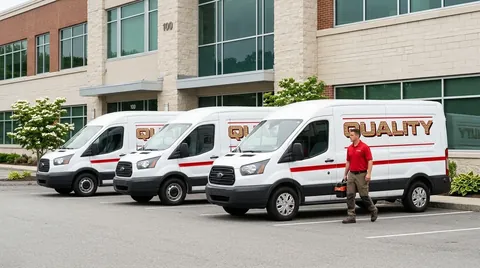
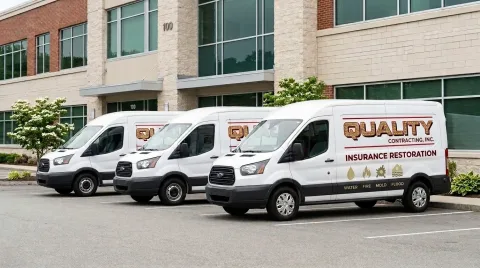
qci: Fran's website feedback round (08-19 email)
- header logo removed (name in type; van carries the brand)
- all free-estimate copy replaced with Request Service across components/content
- all dollar figures stripped from 12 content files (scope-based reframe, lint-gated)
- about: incorporated April 2001, meta corrected
- emergency page: six client-attested emergency services (capsule + card grid)
- graphical MA-CT-RI service-area map (Fran's image) replaces town-list-only view
- van hero regenerated: INSURANCE RESTORATION + WATER/FIRE/MOLD/FLOOD icon row,
  middle-van lettering cleaned, wall ghosting removed (all 4 webp derivatives)
- PAY HERE ported verbatim from qualitycontracting.us (Authorize.net Simple
  Checkout LinkId) into header + mobile nav + footer
- domain recorded: qualitycontracting.us; brand.ts/astro.config/llms/ai.txt
  https://None fixed; local /brand/hero.webp fallback replaces images.None

diff --git a/sites/quality-contracting-inc/src/lib/brand.ts b/sites/quality-contracting-inc/src/lib/brand.ts
@@ -8,7 +8,7 @@ export const brand = {
   shortName: "Quality Contracting, Inc.",
   legalName: "Quality Contracting, Inc.",
   domain: "",
-  canonicalUrl: "https://None",
+  canonicalUrl: "https://qualitycontracting.us",
   phone: "(508) 756-8800",
   phoneRaw: "+15087568800",
   email: "info@qualitycontracting.us",
@@ -26,7 +26,9 @@ export const brand = {
   lng: "-71.8358095",
   placeId: "",
   googleCid: "",
-  imagesBase: "https://images.None",
+  // No per-client images bucket provisioned — serve the brand hero fallback
+  // from the site itself (public/brand/hero.webp)
+  imagesBase: "",
   googleMapsApiKey: "",
   // Analytics — set post-scaffold (scripts/analytics_set.py / create_ga4.py); no-op if empty
   ga4MeasurementId: "",

diff --git a/sites/quality-contracting-inc/src/content/services/mold-remediation.md b/sites/quality-contracting-inc/src/content/services/mold-remediation.md
@@ -12,7 +12,7 @@ generated_at: "2026-07-28T14:56:37.534349+00:00"
 manual_override: false
 internal_links: ["/services/", "/contact/", "/blog/choosing-a-restoration-company/", "/blog/how-to-test-for-mold/", "/blog/signs-of-hidden-mold/"]
 breadcrumb: [{"name": "Home", "url": "/"}, {"name": "Services", "url": "/services/"}, {"name": "Mold Remediation"}]
-faq: [{"question": "Does homeowners insurance cover mold remediation?", "answer": "It depends on the cause: most standard homeowners policies cover mold remediation when it results directly from a covered sudden event, like a burst pipe or appliance leak, but many policies exclude mold from long-term seepage, flooding, or neglected maintenance \u2014 and mold sublimits (often $5,000\u2013$10,000) can apply even when coverage exists. Quality Contracting, Inc. works with all major insurance carriers and handles the claim documentation \u2014 moisture readings, photo records, written scope \u2014 so your adjuster has what they need to process the claim. Reviewing your specific policy's mold language before filing is always worth a quick call to your agent."}, {"question": "What's the difference between mold remediation and mold removal \u2014 and does the distinction matter?", "answer": "\"Mold removal\" implies eliminating all mold, which isn't possible \u2014 mold spores exist naturally in every indoor and outdoor environment. Remediation means returning indoor mold levels to a normal background concentration and eliminating the conditions that allowed abnormal growth. The distinction matters practically: a contractor who promises complete mold elimination is overstating what the work can achieve, and a remediation that doesn't address the underlying moisture source will fail regardless of what's applied to the surface."}, {"question": "How do I know the mold remediation actually worked?", "answer": "Post-remediation verification \u2014 either a visual clearance inspection or air sampling compared against an outdoor baseline \u2014 is the standard way to confirm the work was effective. Air samples taken inside the remediated area should show spore concentrations and species composition comparable to outdoor control samples. Without this step, there's no objective evidence the remediation succeeded, which can also create problems if you sell the property or file a future insurance claim."}, {"question": "Do I need to leave my home during mold remediation?", "answer": "For small, well-contained projects \u2014 a single bathroom wall, for example \u2014 temporary displacement may not be necessary if the work area can be fully isolated. For larger projects involving significant material removal, HEPA air scrubbing running continuously, or mold in HVAC-adjacent areas, staying elsewhere during active work is the more cautious choice. The remediation team will walk you through what's appropriate for your specific project before work begins."}, {"question": "How quickly does mold grow after a water leak, and does that affect what remediation involves?", "answer": "Under warm, humid conditions, mold can begin colonizing wet porous materials \u2014 drywall paper, insulation, wood \u2014 within 24 to 48 hours of a moisture event. The longer materials stay wet, the deeper the hyphal growth penetrates into the substrate, which affects whether surface cleaning is sufficient or whether physical removal is necessary. A leak that was dried within 24\u201348 hours may require only monitoring and treatment; the same leak left wet for a week or more typically requires material removal and is a more involved remediation scope."}]
+faq: [{"question": "Does homeowners insurance cover mold remediation?", "answer": "It depends on the cause: most standard homeowners policies cover mold remediation when it results directly from a covered sudden event, like a burst pipe or appliance leak, but many policies exclude mold from long-term seepage, flooding, or neglected maintenance \u2014 and mold sublimits can apply even when coverage exists. Quality Contracting, Inc. works with all major insurance carriers and handles the claim documentation \u2014 moisture readings, photo records, written scope \u2014 so your adjuster has what they need to process the claim. Reviewing your specific policy's mold language before filing is always worth a quick call to your agent."}, {"question": "What's the difference between mold remediation and mold removal \u2014 and does the distinction matter?", "answer": "\"Mold removal\" implies eliminating all mold, which isn't possible \u2014 mold spores exist naturally in every indoor and outdoor environment. Remediation means returning indoor mold levels to a normal background concentration and eliminating the conditions that allowed abnormal growth. The distinction matters practically: a contractor who promises complete mold elimination is overstating what the work can achieve, and a remediation that doesn't address the underlying moisture source will fail regardless of what's applied to the surface."}, {"question": "How do I know the mold remediation actually worked?", "answer": "Post-remediation verification \u2014 either a visual clearance inspection or air sampling compared against an outdoor baseline \u2014 is the standard way to confirm the work was effective. Air samples taken inside the remediated area should show spore concentrations and species composition comparable to outdoor control samples. Without this step, there's no objective evidence the remediation succeeded, which can also create problems if you sell the property or file a future insurance claim."}, {"question": "Do I need to leave my home during mold remediation?", "answer": "For small, well-contained projects \u2014 a single bathroom wall, for example \u2014 temporary displacement may not be necessary if the work area can be fully isolated. For larger projects involving significant material removal, HEPA air scrubbing running continuously, or mold in HVAC-adjacent areas, staying elsewhere during active work is the more cautious choice. The remediation team will walk you through what's appropriate for your specific project before work begins."}, {"question": "How quickly does mold grow after a water leak, and does that affect what remediation involves?", "answer": "Under warm, humid conditions, mold can begin colonizing wet porous materials \u2014 drywall paper, insulation, wood \u2014 within 24 to 48 hours of a moisture event. The longer materials stay wet, the deeper the hyphal growth penetrates into the substrate, which affects whether surface cleaning is sufficient or whether physical removal is necessary. A leak that was dried within 24\u201348 hours may require only monitoring and treatment; the same leak left wet for a week or more typically requires material removal and is a more involved remediation scope."}]
 service_slug: "mold-remediation"
 service_display: "Mold Remediation"
 rendered: true
@@ -51,17 +51,7 @@ Finally, clearance testing matters. Remediation without a post-project air sampl
 
 ## What does mold remediation cost?
 
-Typical costs run a wide range depending on the size of the affected area, the materials involved, and whether the underlying moisture source requires structural repair. Most homeowners pay somewhere in the ranges below — these are industry-typical figures, not a quote from Quality Contracting, Inc.
-
-| Scenario | Typical range |
-|---|---|
-| Single bathroom or small surface area (< 10 sq ft) | $500 – $1,500 |
-| Single room, contained growth (10–50 sq ft) | $1,500 – $4,000 |
-| Multiple rooms or partial floor system | $4,000 – $10,000 |
-| Crawlspace remediation | $3,000 – $8,000 |
-| Whole-structure or attic remediation | $8,000 – $30,000+ |
-
-Every loss is different, and Quality Contracting, Inc. provides a written scope of work before any project begins so there are no surprises. Homeowners insurance typically covers mold remediation when it results directly from a covered peril — a sudden pipe burst, for example — but may exclude mold that developed from long-term neglected moisture or flooding in certain policy types. Reviewing your policy's mold sublimit before filing is worth the call to your agent.
+Cost depends on the documented scope of work. The size of the affected area, the materials involved, and whether the underlying moisture source requires structural repair all affect what the job requires. We produce a line-item scope with photos and moisture readings formatted for insurance carriers so your adjuster has a clear, complete record. For insured losses we bill the carrier directly. Call us at (508) 756-8800 and we will walk through the scope with you before any work begins so there are no surprises. Homeowners insurance typically covers mold remediation when it results directly from a covered peril — a sudden pipe burst, for example — but may exclude mold that developed from long-term neglected moisture or flooding in certain policy types. Reviewing your policy's mold sublimit before filing is worth the call to your agent.
 
 ## Seasonal and regional considerations
 

diff --git a/sites/quality-contracting-inc/src/content/pages/about.md b/sites/quality-contracting-inc/src/content/pages/about.md
@@ -2,7 +2,7 @@
 archetype: "about"
 title: "About Quality Contracting, Inc. | Auburn Restoration Company"
 h1: "About Quality Contracting, Inc."
-meta_description: "Quality Contracting, Inc. Has served Auburn since. Meet our restoration team. Locally owned."
+meta_description: "Quality Contracting, Inc., serving South and Central New England from Auburn since 2001. Meet our restoration team. Locally owned."
 primary_keyword: "quality contracting, inc. auburn"
 secondary_keywords: ["local restoration company", "restoration industry standards", "licensed restoration contractor"]
 search_intent: "navigational_trust"
@@ -12,7 +12,7 @@ generated_at: "2026-07-28T15:04:18.068276+00:00"
 manual_override: false
 internal_links: ["/", "/services/", "/contact/"]
 breadcrumb: [{"name": "Home", "url": "/"}, {"name": "About"}]
-faq: [{"question": "How long has Quality Contracting, Inc. been in business?", "answer": "Quality Contracting, Inc. has been operating in central Massachusetts for a number of years, based out of Auburn. For specific founding details, feel free to call the office at (508) 756-8800 \u2014 the team is happy to talk through the company's history directly."}, {"question": "What areas does Quality Contracting, Inc. serve?", "answer": "The primary service area covers Auburn, Worcester, Shrewsbury, and the corridor east toward Boston — Westborough, Southborough, Hopkinton, Framingham, Natick, Wellesley, Needham, Newton, and Weston — with crews responding across a 50 mile radius of Auburn. If you're unsure whether your location falls within the service area, a quick call to (508) 756-8800 will get you a straight answer."}, {"question": "Is Quality Contracting, Inc. certified for mold and water damage work?", "answer": "The company follows IICRC industry standards for water damage and mold remediation work, which set the technical benchmarks for drying protocols, containment, and documentation. For work in homes built before 1978, EPA lead-safe practices apply to any demolition or reconstruction that disturbs painted surfaces \u2014 something that comes up frequently given the age of housing stock across central Massachusetts."}]
+faq: [{"question": "How long has Quality Contracting, Inc. been in business?", "answer": "Quality Contracting, Inc. has been incorporated since April 2001 and operates out of Auburn, Massachusetts, serving South and Central New England. That is more than two decades of restoration and reconstruction work in the region."}, {"question": "What areas does Quality Contracting, Inc. serve?", "answer": "The primary service area covers Auburn, Worcester, Shrewsbury, and the corridor east toward Boston — Westborough, Southborough, Hopkinton, Framingham, Natick, Wellesley, Needham, Newton, and Weston — with crews responding across a 50 mile radius of Auburn. If you're unsure whether your location falls within the service area, a quick call to (508) 756-8800 will get you a straight answer."}, {"question": "Is Quality Contracting, Inc. certified for mold and water damage work?", "answer": "The company follows IICRC industry standards for water damage and mold remediation work, which set the technical benchmarks for drying protocols, containment, and documentation. For work in homes built before 1978, EPA lead-safe practices apply to any demolition or reconstruction that disturbs painted surfaces \u2014 something that comes up frequently given the age of housing stock across central Massachusetts."}]
 rendered: true
 ---
 Quality Contracting, Inc. has been serving homeowners and property managers in central Massachusetts from its base in Auburn — a town that sits almost exactly at the geographic center of the state, which makes it a natural hub for responding to losses across Worcester County and beyond. The company was built around restoration work because that's where the need is most acute: a burst pipe at 2 a.m., a kitchen fire, a basement that's been quietly growing mold behind the drywall for months. These aren't projects people plan for, and the contractor they call needs to know exactly what they're doing.

diff --git a/sites/quality-contracting-inc/src/content/blog/how-to-test-for-mold.md b/sites/quality-contracting-inc/src/content/blog/how-to-test-for-mold.md
@@ -21,7 +21,7 @@ If you've spotted a dark stain on the ceiling, caught a musty smell after a base
 
 ## What DIY Mold Test Kits Actually Do (and Don't Do)
 
-You've probably seen the petri-dish kits at hardware stores — typically $10–$50 — or the swab-and-mail-in versions that cost $30–$150 once you add the lab fee. Both work on the same basic principle: collect a sample, let mold spores grow or send the sample to a lab, and get a result.
+You've probably seen the petri-dish kits at hardware stores, or the swab-and-mail-in versions that require a separate lab fee. Both work on the same basic principle: collect a sample, let mold spores grow or send the sample to a lab, and get a result.
 
 Here's what they can tell you:
 
@@ -49,7 +49,7 @@ A certified mold inspector does several things a kit can't replicate:
 4. **Surface sampling** — Tape lifts or swabs from suspect areas go to an accredited lab, usually returning results in 24–72 hours.
 5. **Written report** — You receive a documented assessment that identifies affected areas, species found, and recommended remediation scope. This report is often required by insurance carriers and is essential if you're buying or selling a home.
 
-The cost for a professional inspection in central Massachusetts typically runs $300–$600 depending on home size and the number of samples collected. That's more than a kit, but the information you get is categorically different.
+A professional inspection gives you information that is categorically different from what a kit provides. The cost depends on the documented scope, including home size and the number of samples needed.
 
 ## When a DIY Kit Is Probably Enough
 
@@ -76,7 +76,7 @@ Call a professional if any of the following apply:
 
 If the inspection confirms mold, the next step is remediation — the physical removal of contaminated materials and treatment of affected surfaces. This is not a bleach-and-paint job. Proper remediation involves containment barriers to prevent cross-contamination, negative air pressure machines with HEPA filtration, controlled demolition of unsalvageable drywall or insulation, antimicrobial treatment, and post-remediation clearance testing to verify the work is complete.
 
-The scope depends entirely on what the inspection found. A 2-square-foot stain on a bathroom wall is a different project than mold colonizing 400 square feet of basement framing after a sump pump failure. That's why the inspection report matters — it defines the scope, which defines the cost, which is what your insurance carrier needs to process a claim.
+The scope depends entirely on what the inspection found. A 2-square-foot stain on a bathroom wall is a different project than mold colonizing 400 square feet of basement framing after a sump pump failure. That's why the inspection report matters. We produce a line-item scope with photos and moisture readings formatted for insurance carriers. For insured losses we bill the carrier directly.
 
 In Auburn and the surrounding MetroWest and Worcester County area, older housing stock — triple-deckers, cape-style homes with unvented crawl spaces, and 1960s–1980s ranch homes with fiberglass-insulated basements — tends to hold moisture longer than newer construction. If your home falls into any of those categories and you've had any water intrusion, the threshold for getting a professional inspection should be lower, not higher.
 

diff --git a/sites/quality-contracting-inc/src/content/blog/does-homeowners-insurance-cover-water-damage.md b/sites/quality-contracting-inc/src/content/blog/does-homeowners-insurance-cover-water-damage.md
@@ -49,7 +49,7 @@ One thing Massachusetts homeowners run into: ice dam damage. Because ice dams ar
 
 Before you call your adjuster, spend 15 minutes with your declarations page and the exclusions section. You're looking for three things:
 
-1. **Your deductible.** If the damage is $3,200 and your deductible is $2,500, filing a claim may not be worth it — and a claim on your record can raise your premium.
+1. **Your deductible.** Cost depends on the documented scope; we produce a line-item scope with photos and moisture readings formatted for insurance carriers. If the repair cost is only modestly above your deductible, filing a claim may not be worth it, and a claim on your record can raise your premium.
 2. **The exclusions list.** Look for the words "seepage," "leakage," "continuous or repeated," and "flood." These are the phrases insurers use to deny gradual-damage claims.
 3. **Any endorsements you added.** Water backup coverage, equipment breakdown coverage, and service line coverage are common add-ons that change what's covered. If you're not sure what you bought, call your agent — not your adjuster — and ask.
 
@@ -87,7 +87,7 @@ The drying and reconstruction phase runs parallel to the claims process. Structu
 
 Water is deceptive. A stain on the ceiling might represent a few gallons of standing water inside a wall cavity. Hardwood floors that look fine on day one can be cupped and buckled by day three. Mold can begin to colonize wet cellulose materials — drywall paper, wood framing, insulation — within 24 to 48 hours in warm conditions.
 
-If you're dealing with more than a small, contained spill, a professional moisture assessment is worth doing even if you're still sorting out insurance. Thermal imaging cameras and pin-type moisture meters can find wet areas behind walls and under floors that look dry to the eye. Knowing the true extent of the damage before you negotiate a claim settlement protects you from closing out a claim and then discovering hidden rot or mold six months later.
+If you're dealing with more than a small, contained spill, a professional moisture assessment is worth doing even if you're still sorting out insurance. Thermal imaging cameras and pin-type moisture meters can find wet areas behind walls and under floors that look dry to the eye. Cost depends on the documented scope; we produce a line-item scope with photos and moisture readings formatted for insurance carriers, and for insured losses we bill the carrier directly. Knowing the true extent of the damage before you negotiate a claim settlement protects you from closing out a claim and then discovering hidden rot or mold six months later.
 
 ---
 

diff --git a/sites/quality-contracting-inc/src/content/services/contents-restoration.md b/sites/quality-contracting-inc/src/content/services/contents-restoration.md
@@ -55,18 +55,7 @@ Insurance adjusters also look for a clear line between pre-loss condition and lo
 
 ## What does contents restoration and storage cost?
 
-Typical costs for contents restoration and storage vary considerably based on the volume of affected items, the type of damage, and how quickly the pack-out begins. Most homeowners pay somewhere in the ranges below for industry-typical scenarios — these are not quotes from Quality Contracting, Inc., but representative figures to help you understand the scope of the work.
-
-| Scenario | Typical industry range |
-|---|---|
-| Single room, smoke-affected soft goods only | $800 – $2,500 |
-| Whole-house pack-out after fire (contents cleaning + storage) | $8,000 – $25,000 |
-| Water damage pack-out, single floor (no mold) | $3,500 – $9,000 |
-| Document and photo recovery (freeze-drying, small volume) | $500 – $2,000 |
-| Electronics assessment and restoration (per unit) | $150 – $600 |
-| Odor treatment (ozone/hydroxyl, whole-house contents) | $1,200 – $4,000 |
-
-Every loss is different, and Quality Contracting, Inc. provides a written scope of work before any restoration begins so there are no surprises. Homeowners insurance typically covers contents restoration and storage when the loss is caused by a covered peril — fire, certain water events, and storm damage are the most common — and the itemized inventory documentation generated during pack-out is exactly what adjusters need to process that portion of the claim.
+Cost depends on the documented scope of the loss. The volume of affected items, the type of damage, and how quickly the pack-out begins all shape what the work involves. We produce a line-item scope with photos and moisture readings formatted for insurance carriers. For insured losses we bill the carrier directly. Homeowners insurance typically covers contents restoration and storage when the loss is caused by a covered peril — fire, certain water events, and storm damage are the most common — and the itemized inventory documentation generated during pack-out is exactly what adjusters need to process that portion of the claim. Quality Contracting, Inc. provides a written scope of work before any restoration begins so there are no surprises.
 
 ## Seasonal and regional considerations
 

diff --git a/sites/quality-contracting-inc/src/content/services/fire-damage-restoration.md b/sites/quality-contracting-inc/src/content/services/fire-damage-restoration.md
@@ -49,18 +49,7 @@ Finally, HVAC systems are frequently overlooked. Smoke circulates through ductwo
 
 ## What does fire damage restoration cost?
 
-Typical costs for residential fire and smoke restoration vary widely based on the size of the affected area, the intensity of the fire, and the types of materials involved. Most homeowners pay somewhere between $3,000 and $30,000 for fire cleanup and structural repair, with total losses running significantly higher. The table below reflects typical industry ranges — not quotes from Quality Contracting, Inc.
-
-| Scenario | Typical industry range |
-|---|---|
-| Single room, smoke damage only | $2,500 – $6,000 |
-| Kitchen fire, moderate structural damage | $8,000 – $20,000 |
-| Whole-floor smoke migration, no structural loss | $6,000 – $15,000 |
-| Partial structural loss (one room or area) | $15,000 – $40,000 |
-| Whole-home fire with reconstruction required | $40,000 – $150,000+ |
-| Contents pack-out and cleaning (per household) | $3,000 – $12,000 |
-
-Every fire loss is different — scope, materials, and extent of hidden damage all affect the final number. Quality Contracting, Inc. provides a written scope of work before any work begins so there are no surprises. Standard homeowners insurance policies typically cover sudden and accidental fire damage including cleanup, structural repair, and contents restoration, subject to your deductible and policy limits.
+Cost depends on the documented scope of work. Every fire loss is different — the size of the affected area, the intensity of the fire, the types of materials involved, and the extent of hidden smoke migration all affect the final scope. Quality Contracting, Inc. produces a line-item scope with photos and moisture readings formatted for insurance carriers so the adjuster has everything needed to process the claim accurately. For insured losses we bill the carrier directly. Quality Contracting, Inc. provides a written scope of work before any work begins so there are no surprises. Standard homeowners insurance policies typically cover sudden and accidental fire damage including cleanup, structural repair, and contents restoration, subject to your deductible and policy limits.
 
 ## Seasonal and regional considerations
 

diff --git a/sites/quality-contracting-inc/src/content/services/crawl-space-encapsulation.md b/sites/quality-contracting-inc/src/content/services/crawl-space-encapsulation.md
@@ -53,18 +53,7 @@ Finally, dehumidifier sizing matters. A unit rated for 1,000 sq ft placed in a 2
 
 ## What does crawl space encapsulation cost?
 
-Typical costs for crawl space encapsulation depend on the size of the space, existing conditions, and what components the system requires. Most homeowners pay somewhere in the ranges below — these are industry-typical figures, not a quote from Quality Contracting, Inc.
-
-| Scenario | Typical range |
-|---|---|
-| Small crawl space (under 800 sq ft), liner only | $1,500 – $3,000 |
-| Mid-size crawl space (800–1,500 sq ft), liner + dehumidifier | $3,000 – $6,000 |
-| Large crawl space (1,500–2,500 sq ft), full system | $5,500 – $10,000 |
-| Add: insulation removal and disposal | $500 – $1,500 |
-| Add: sump pit and sealed cover | $800 – $2,000 |
-| Add: mold remediation on framing prior to encapsulation | $1,200 – $4,500 |
-
-Every crawl space is different, and Quality Contracting, Inc. provides a written scope of work before any work begins so there are no surprises. Homeowners insurance typically does not cover encapsulation as a preventive upgrade, but it may cover related work — liner replacement, mold remediation, or structural drying — when the damage is tied to a covered sudden loss like a burst pipe or storm-driven water intrusion. Documentation of cause and scope is key to a successful claim.
+Cost depends on the documented scope of work. Every job is different based on the size of the space, existing conditions, and what components the system requires. We produce a line-item scope with photos and moisture readings formatted for insurance carriers so the work is clearly supported from the start. For insured losses we bill the carrier directly. Quality Contracting, Inc. provides a written scope of work before any work begins so there are no surprises. Homeowners insurance typically does not cover encapsulation as a preventive upgrade, but it may cover related work — liner replacement, mold remediation, or structural drying — when the damage is tied to a covered sudden loss like a burst pipe or storm-driven water intrusion. Documentation of cause and scope is key to a successful claim.
 
 ## Seasonal and regional considerations
 

diff --git a/sites/quality-contracting-inc/src/content/services/water-damage-restoration.md b/sites/quality-contracting-inc/src/content/services/water-damage-restoration.md
@@ -49,18 +49,7 @@ For Category 2 and Category 3 losses, proper containment and antimicrobial treat
 
 ## What does Water Damage Restoration cost?
 
-Typical costs vary significantly based on water category, affected square footage, materials involved, and how quickly mitigation begins. Most homeowners pay somewhere between $1,500 and $8,000 for residential water mitigation, though large-loss events — finished basements, multi-story pipe bursts, or prolonged leaks discovered late — can run higher. The figures below reflect typical industry ranges, not quotes from Quality Contracting, Inc.
-
-| Scenario | Typical industry range |
-|---|---|
-| Single room, clean water (Category 1) | $1,200 – $3,500 |
-| Multi-room, clean water with subfloor involvement | $3,000 – $6,500 |
-| Category 2 loss (appliance overflow, gray water) | $2,500 – $7,000 |
-| Category 3 loss (sewage, floodwater) | $4,000 – $12,000+ |
-| Finished basement, partial flooding | $3,500 – $9,000 |
-| Crawl space water intrusion | $1,500 – $5,000 |
-
-Every loss is different, and Quality Contracting, Inc. provides a written scope before work begins so there are no surprises. Standard homeowners insurance typically covers sudden and accidental water damage — a burst pipe, appliance failure, or roof leak — but generally excludes gradual leaks and ground-level flooding, which requires separate flood insurance.
+Cost depends on the documented scope of loss. Water category, affected square footage, materials involved, and how quickly mitigation begins all affect what the scope includes. We produce a line-item scope with photos and moisture readings formatted for insurance carriers. For insured losses we bill the carrier directly. Standard homeowners insurance typically covers sudden and accidental water damage — a burst pipe, appliance failure, or roof leak — but generally excludes gradual leaks and ground-level flooding, which requires separate flood insurance.
 
 ## Seasonal and regional considerations
 

diff --git a/sites/quality-contracting-inc/src/content/services/air-duct-cleaning.md b/sites/quality-contracting-inc/src/content/services/air-duct-cleaning.md
@@ -51,16 +51,7 @@ Finally, air duct sanitization is only effective after thorough mechanical clean
 
 ## What does air duct cleaning cost?
 
-Typical costs for residential duct cleaning run $300–$1,000 for a standard single-system home, with the range widening significantly based on system size, accessibility, contamination level, and whether sanitization or dryer vent service is included. Most homeowners pay in the $400–$700 range for a straightforward forced-air system with no microbial involvement. Every loss and every home is different — Quality Contracting, Inc. provides a written scope before any work begins so there are no surprises.
-
-| Scenario | Typical range |
-|---|---|
-| Single-system home, standard cleaning (10–15 registers) | $300 – $600 |
-| Dual-system home or large square footage | $550 – $1,000 |
-| Duct cleaning + dryer vent service | $400 – $750 |
-| Duct cleaning + air duct sanitization (antimicrobial application) | $500 – $950 |
-| Post-renovation duct cleaning (construction debris present) | $600 – $1,200 |
-| Mold-involved duct system (remediation scope required) | $1,500 – $4,000+ |
+Cost depends on the documented scope of work. Every home is different, and factors like system size, number of registers, accessibility, contamination level, and whether sanitization or dryer vent service is needed all affect what a job requires. We produce a line-item scope with photos and moisture readings formatted for insurance carriers before any work begins, so there are no surprises. For insured losses, we bill the carrier directly.
 
 Homeowners insurance typically does not cover routine duct cleaning, but it may cover duct cleaning and sanitization when it is part of a documented water damage or mold remediation claim — for example, when a duct system is contaminated following a roof leak or HVAC condensate overflow. Quality Contracting, Inc. works with all major insurance carriers and handles claim documentation when coverage applies.
 

diff --git a/sites/quality-contracting-inc/src/content/services/storm-damage-restoration.md b/sites/quality-contracting-inc/src/content/services/storm-damage-restoration.md
@@ -49,18 +49,7 @@ Another common gap: failing to identify secondary structural damage. A tree impa
 
 ## What does Storm Damage Restoration cost?
 
-Typical costs vary significantly based on storm type, the size of the affected area, and how long the structure was exposed before stabilization. Most homeowners pay somewhere between $3,000 and $25,000 for storm damage restoration when combining emergency services, drying, and reconstruction — but losses involving major structural damage or prolonged water intrusion can run higher. The table below reflects typical industry ranges by scenario.
-
-| Scenario | Typical range |
-|---|---|
-| Emergency tarping and board-up only | $400 – $1,500 |
-| Minor roof damage with limited water intrusion | $2,500 – $6,000 |
-| Tree impact with roof penetration and attic wetting | $6,000 – $18,000 |
-| Siding loss with wall cavity moisture intrusion | $4,000 – $12,000 |
-| Significant structural damage requiring framing repair | $15,000 – $40,000+ |
-| Full storm damage restoration (multiple systems affected) | $10,000 – $35,000 |
-
-Every loss is different, and Quality Contracting, Inc. provides a written scope of work before any restoration begins so there are no surprises. Homeowners insurance typically covers sudden storm damage to the structure — wind, hail, fallen trees — though flood-origin damage usually requires a separate flood policy.
+Cost depends on the documented scope of loss. What was hit, how many systems were affected, and how long the structure stayed open to the weather all shape the scope. We produce a line-item scope with photos and moisture readings formatted for insurance carriers. For insured losses we bill the carrier directly. Homeowners insurance typically covers sudden storm damage to the structure — wind, hail, fallen trees — though flood-origin damage usually requires a separate flood policy.
 
 ## Seasonal and regional considerations
 

diff --git a/sites/quality-contracting-inc/src/content/services/sewage-cleanup.md b/sites/quality-contracting-inc/src/content/services/sewage-cleanup.md
@@ -47,17 +47,7 @@ Older homes in the Auburn and Worcester area sometimes have clay or cast-iron la
 
 ## What does sewage cleanup and sanitization cost?
 
-Typical costs vary significantly based on the volume of sewage, the size of the affected area, and how much finished material needs to be removed. Most homeowners pay somewhere in the following ranges for industry-typical losses — these are general benchmarks, not quotes, and every loss is different; Quality Contracting, Inc. provides a written scope of work before any work begins.
-
-| Scenario | Typical industry range |
-|---|---|
-| Single bathroom, minor backup, no material removal | $500 – $1,500 |
-| Basement floor drain backup, unfinished space | $1,500 – $4,000 |
-| Finished basement, partial drywall and flooring removal | $4,000 – $9,000 |
-| Multi-room spread, significant structural material removal | $8,000 – $20,000+ |
-| Septic overflow affecting crawlspace or exterior soil | $3,000 – $12,000 |
-
-Homeowners insurance typically covers sudden and accidental sewer or drain backups when the policy includes a sewer backup rider — standard HO-3 policies often exclude this damage by default, so coverage depends on your specific endorsements. Documenting the loss thoroughly from the start is the single most important thing you can do to protect your claim.
+Cost depends on the documented scope of the loss. The volume of sewage, the size of the affected area, and how much finished material needs to be removed all affect the scope. We produce a line-item scope with photos and moisture readings formatted for insurance carriers. For insured losses we bill the carrier directly. Call us and we will walk you through the process for your specific situation.
 
 ## Seasonal and regional considerations
 
